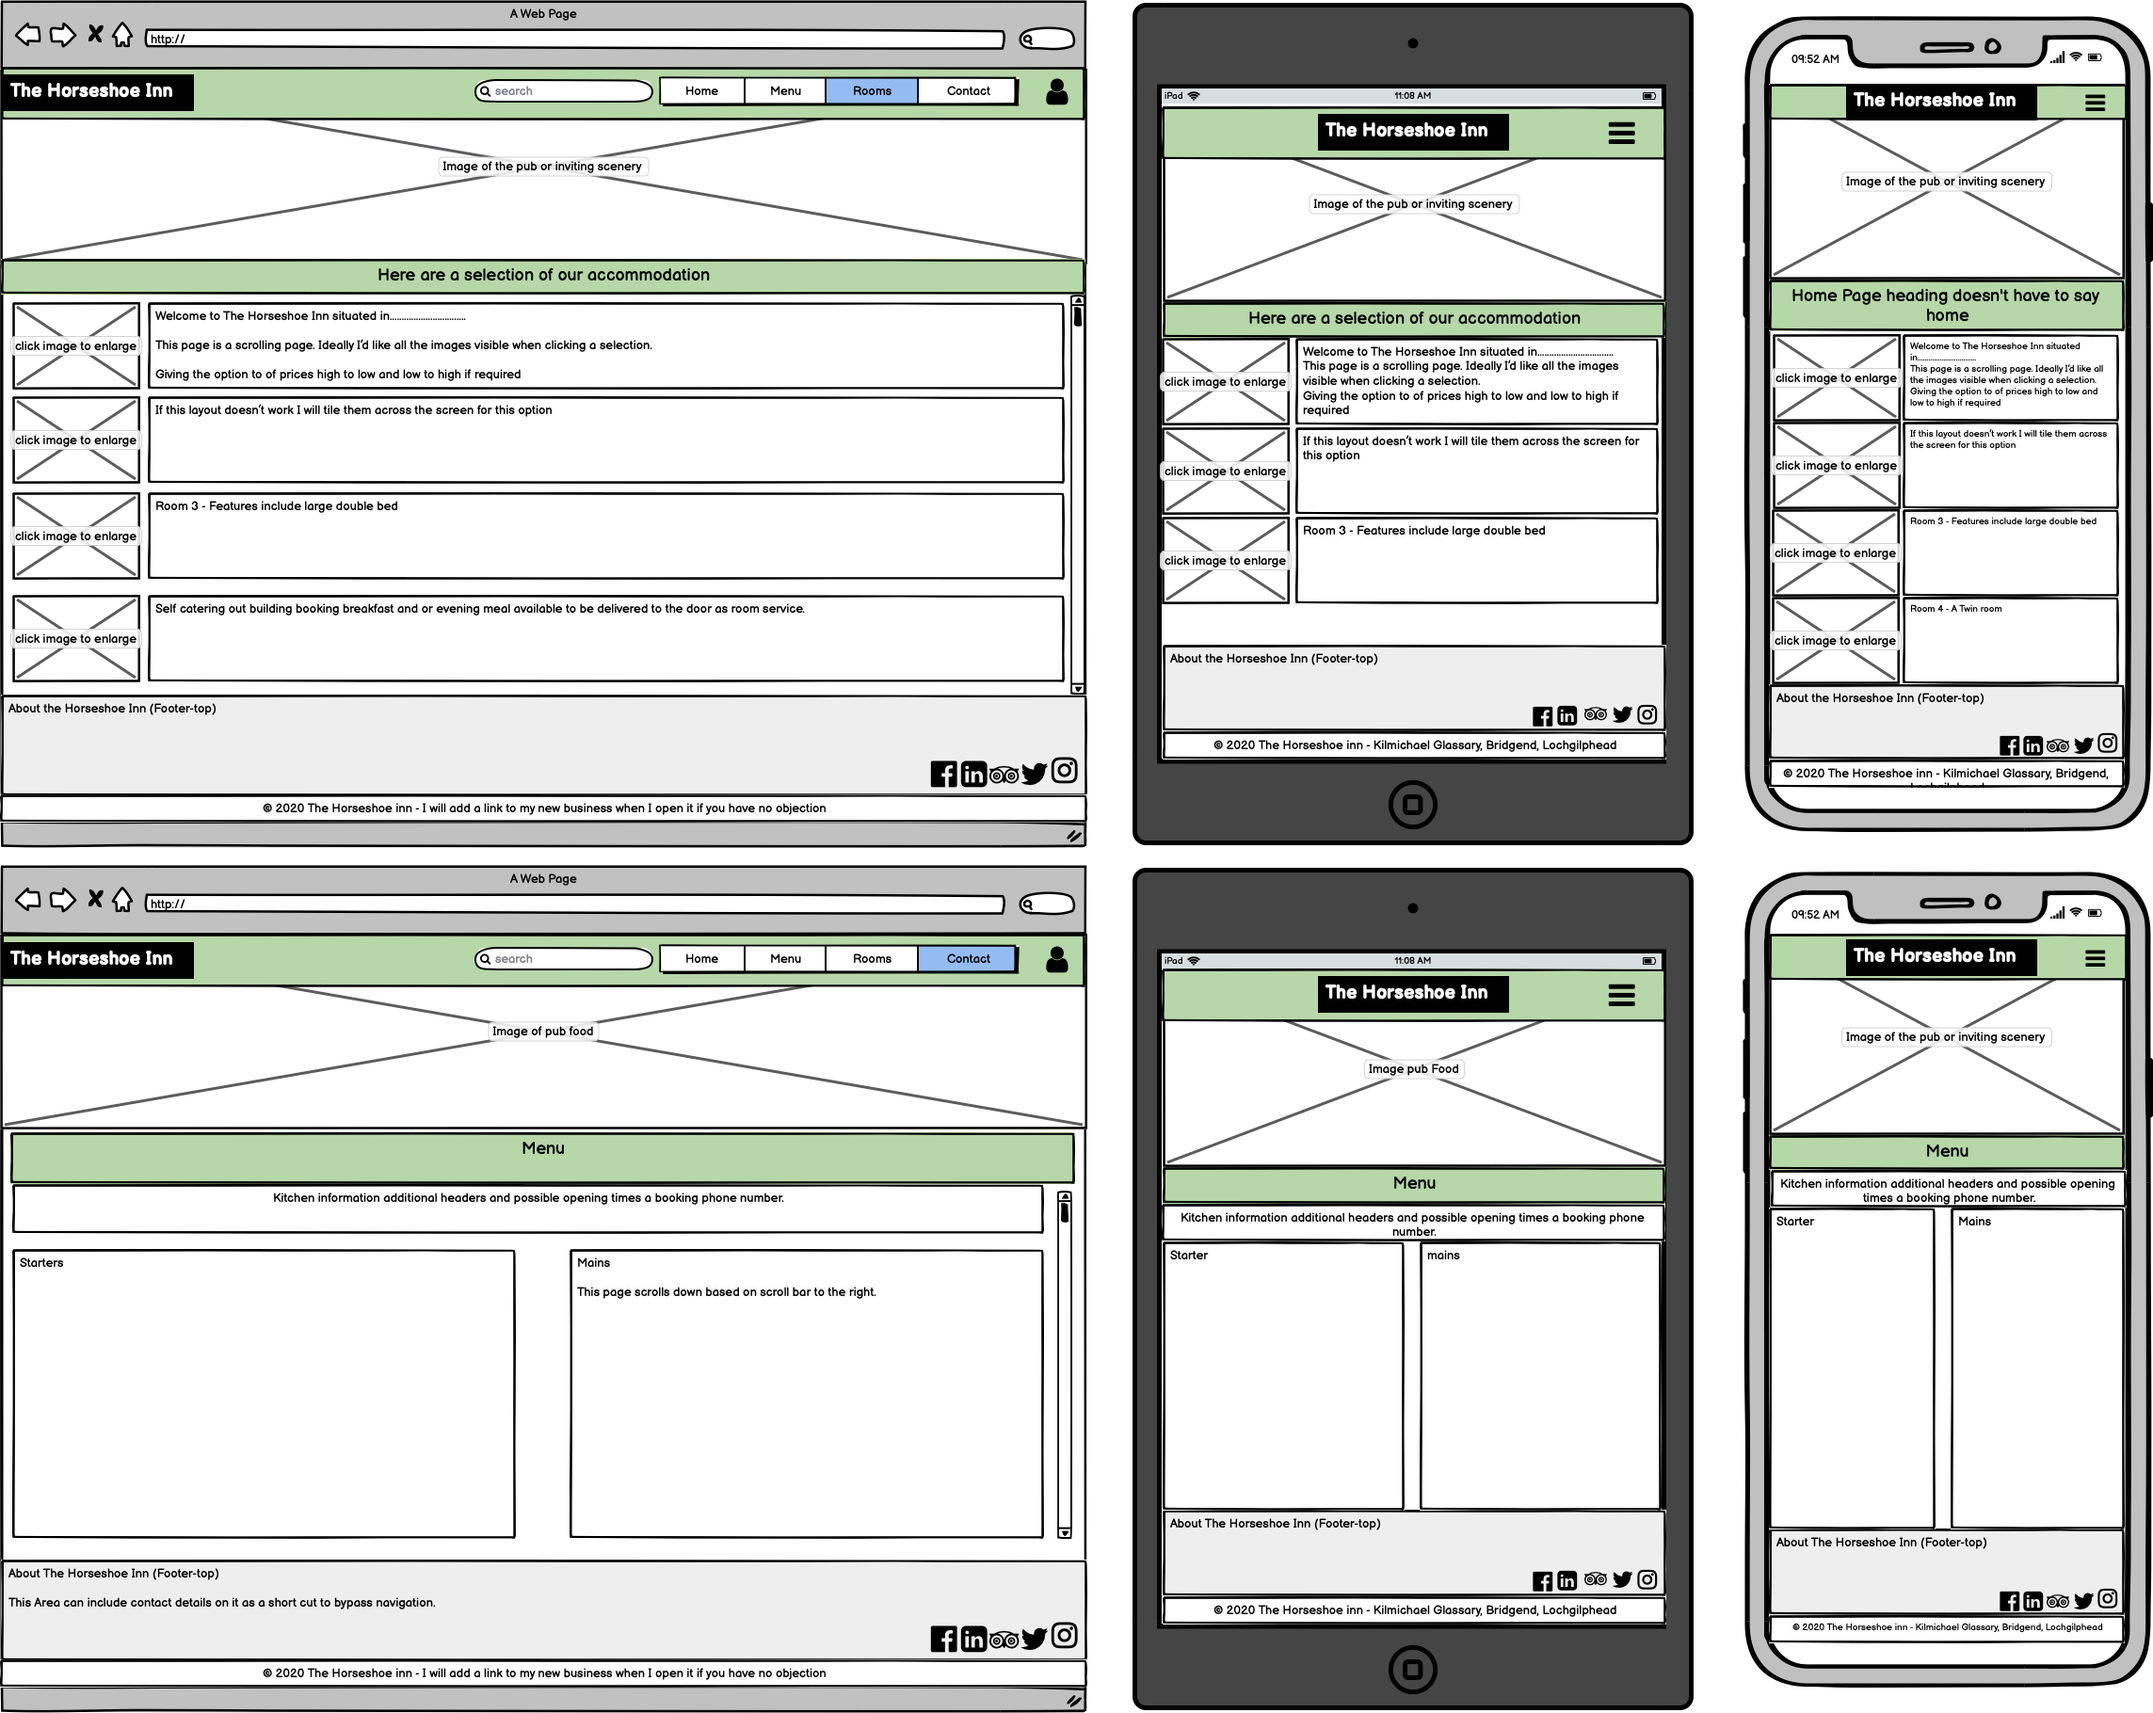
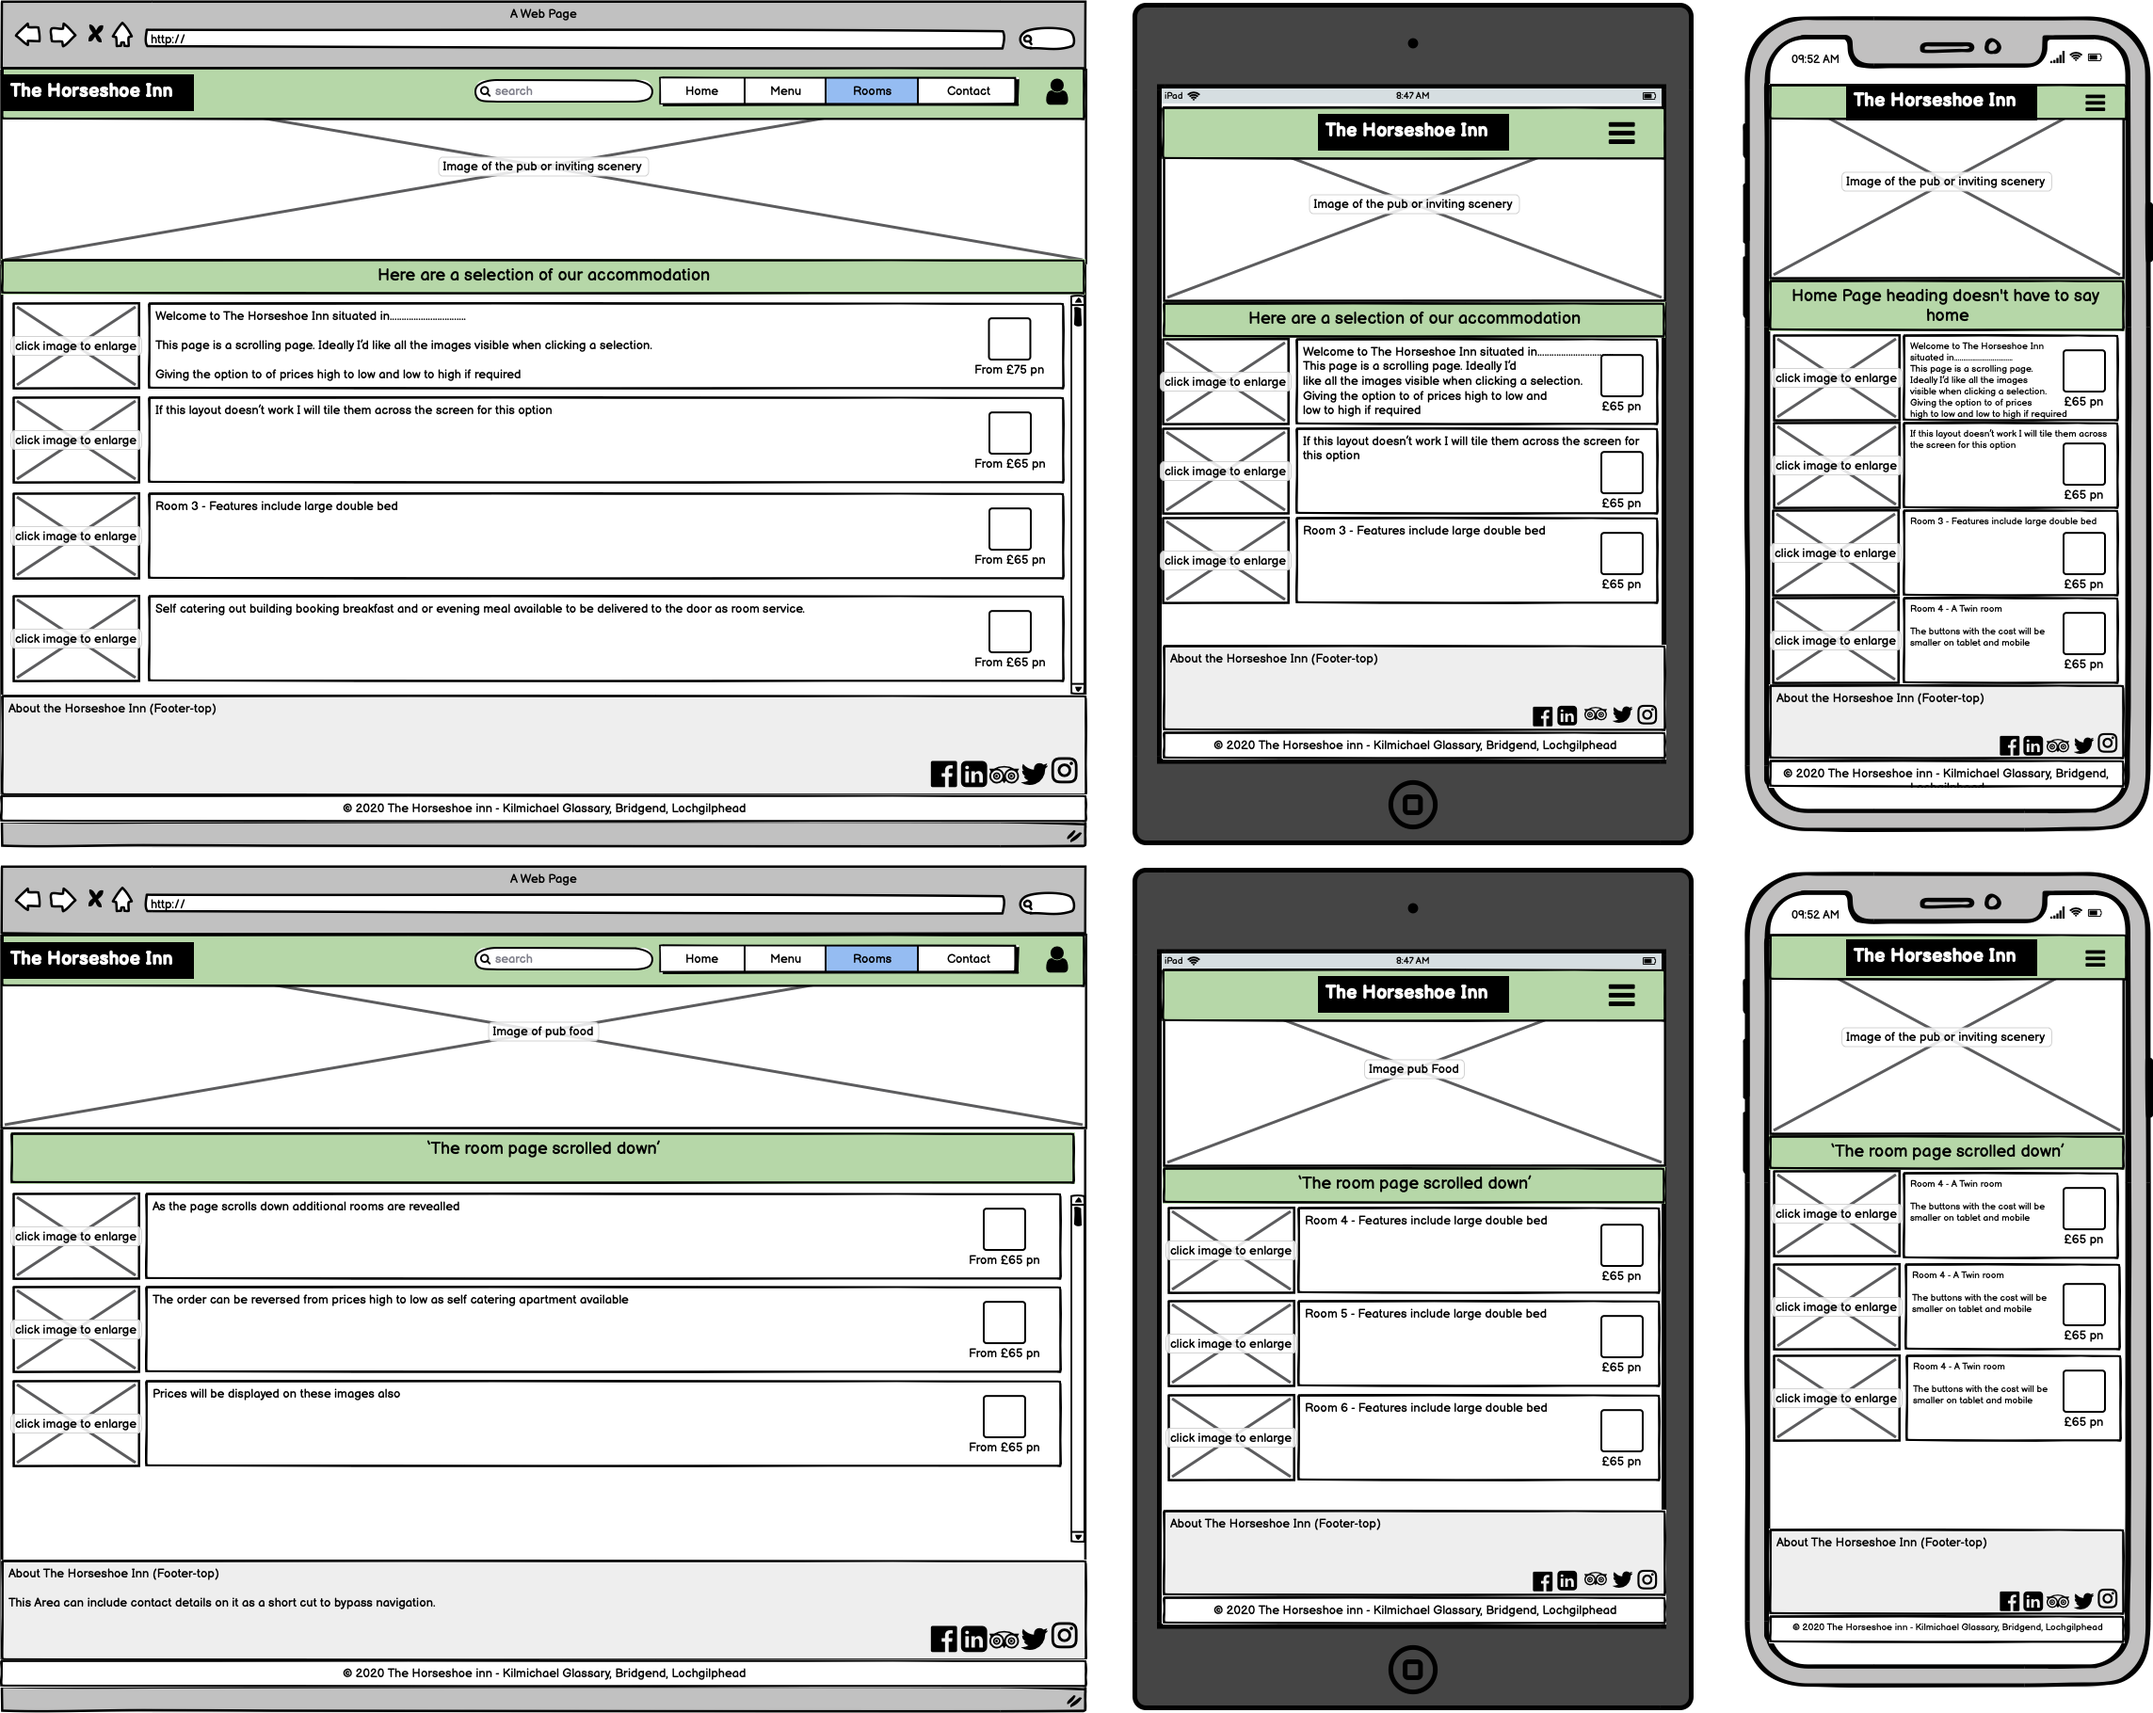
Updated Readme

diff --git a/README.md b/README.md
@@ -44,7 +44,7 @@ Home & Menu
 
 ![Wireframe Home Menu](horseshoe_inn/mockup_images/horseshoe_1.png)
 
-Rooms & MENU REQUIRES AN AMMEND <!-- Ammend the contact to alternate -->
+Rooms & Romms Scrolled down
 
 ![Wireframe Rooms](horseshoe_inn/mockup_images/horseshoe_2.png)
 
@@ -68,8 +68,6 @@ Terms & Conditions and a Covid-19 public information for rules and regulations
 
 
 ## Usability and Visual Impact:
-
-
 
 # Suitability for purpose
 
@@ -124,9 +122,23 @@ security not putting SECRET_KEYS in wrong place using config vars in Heroku
 
 # Testing write-up
 
-# Readme file
-
 # Comments
+
+In the early stages of development I was having linking issues with the Readme file. Basically I wanted
+the best assignment possible with the best readme therefore wanted to add images to the readme rather
+than have them stored in a Wireframes folder. I had been shown how impressive some of these files are
+and it left me inspired.
+
+It is something I hadn't learned on the course so decided to research into this and successfully found
+videos of this on YouTube. However I think the video was slightly dated and got a few errors with the
+links not working correctly and I decided to edit within Github rather than GitPod. This was something
+I hadn't done before so I did make 2 or 3 commit errors by not adding a coment in the box at the bottom
+of the page and the preview option until my 4th attempt.
+
+I contacted tutor support as concerned these errors would go against me hence I am documenting them
+now to make the assor aware of my errors which I can say have now been resolved. Despite all of this I
+found it a great learning curb as worked out alternate ways to update and alter using git commands and
+editing from Github directly.
 
 # Data store integration
 
